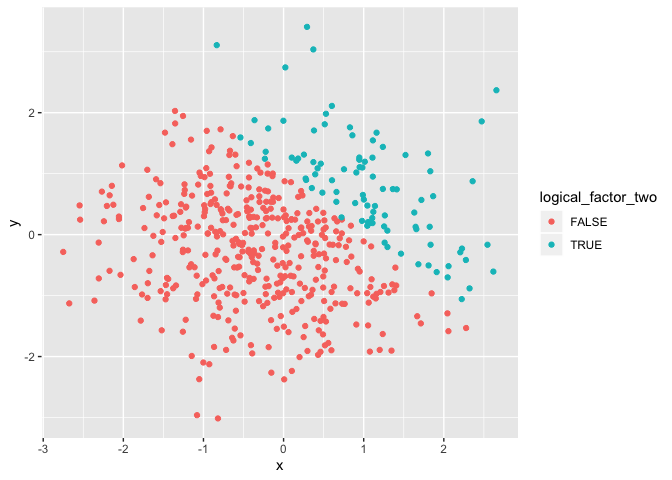
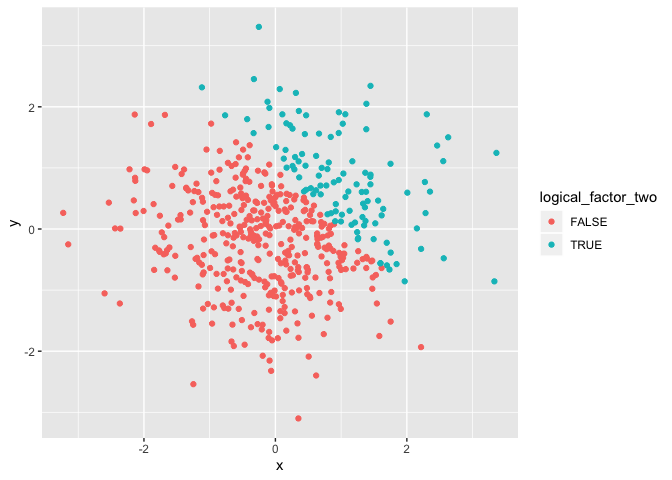
Final Version

diff --git a/p8105_hw1_qy2234.md b/p8105_hw1_qy2234.md
@@ -14,14 +14,14 @@ Michael Yan
 library(tidyverse)
 ```
 
-    ## ── Attaching packages ────────────────────────────────────────────────────────── tidyverse 1.2.1 ──
+    ## ── Attaching packages ───────────────────────────────────────────── tidyverse 1.2.1 ──
 
     ## ✔ ggplot2 3.2.1     ✔ purrr   0.3.2
     ## ✔ tibble  2.1.3     ✔ dplyr   0.8.3
     ## ✔ tidyr   0.8.3     ✔ stringr 1.4.0
     ## ✔ readr   1.3.1     ✔ forcats 0.4.0
 
-    ## ── Conflicts ───────────────────────────────────────────────────────────── tidyverse_conflicts() ──
+    ## ── Conflicts ──────────────────────────────────────────────── tidyverse_conflicts() ──
     ## ✖ dplyr::filter() masks stats::filter()
     ## ✖ dplyr::lag()    masks stats::lag()
 
@@ -80,53 +80,56 @@ factor_vector_mean = mean(pull(df_one, factor_vector))
 as.numeric(pull(df_one, logical_vector))
 ```
 
-    ## [1] 1 0 1 1 1 1 0 0
+    ## [1] 1 1 1 0 1 0 1 0
 
 ``` r
-product_rs_lv_numeric = pull(df_one, logical_vector) * pull(df_one, ramdom_sample)
+product_rs_lv_numeric = pull(df_one, logical_vector) * 
+  pull(df_one, ramdom_sample)
 product_rs_lv_numeric
 ```
 
-    ## [1] 1.6698426 0.0000000 1.6041032 0.7484782 1.3841194 1.1588821 0.0000000
-    ## [8] 0.0000000
+    ## [1] 0.72577030 0.09187142 0.34142293 0.00000000 0.10083496 0.00000000
+    ## [7] 0.50598354 0.00000000
 
 ``` r
-##convert the logical vector to a factor, and multiply the random sample by the result
+## convert the logical vector to a factor, and multiply the random sample by the result
 as.factor(pull(df_one, logical_vector))
 ```
 
-    ## [1] TRUE  FALSE TRUE  TRUE  TRUE  TRUE  FALSE FALSE
+    ## [1] TRUE  TRUE  TRUE  FALSE TRUE  FALSE TRUE  FALSE
     ## Levels: FALSE TRUE
 
 ``` r
-product_rs_lv_factor = pull(df_one, logical_vector) * pull(df_one, ramdom_sample)
+product_rs_lv_factor = pull(df_one, logical_vector) * 
+  pull(df_one, ramdom_sample)
 product_rs_lv_factor
 ```
 
-    ## [1] 1.6698426 0.0000000 1.6041032 0.7484782 1.3841194 1.1588821 0.0000000
-    ## [8] 0.0000000
+    ## [1] 0.72577030 0.09187142 0.34142293 0.00000000 0.10083496 0.00000000
+    ## [7] 0.50598354 0.00000000
 
 ``` r
-##convert the logical vector to a factor and then convert the result to numeric, and multiply the random sample by the result
+## convert the logical vector to a factor and then convert the result to numeric, and multiply the random sample by the result
 as.factor(pull(df_one, logical_vector))
 ```
 
-    ## [1] TRUE  FALSE TRUE  TRUE  TRUE  TRUE  FALSE FALSE
+    ## [1] TRUE  TRUE  TRUE  FALSE TRUE  FALSE TRUE  FALSE
     ## Levels: FALSE TRUE
 
 ``` r
 as.numeric(pull(df_one, logical_vector))
 ```
 
-    ## [1] 1 0 1 1 1 1 0 0
+    ## [1] 1 1 1 0 1 0 1 0
 
 ``` r
-product_rs_lv_n_f = pull(df_one, logical_vector) * pull(df_one, ramdom_sample)
+product_rs_lv_n_f = pull(df_one, logical_vector) * 
+  pull(df_one, ramdom_sample)
 product_rs_lv_n_f
 ```
 
-    ## [1] 1.6698426 0.0000000 1.6041032 0.7484782 1.3841194 1.1588821 0.0000000
-    ## [8] 0.0000000
+    ## [1] 0.72577030 0.09187142 0.34142293 0.00000000 0.10083496 0.00000000
+    ## [7] 0.50598354 0.00000000
 
 ## Problem 2
 
@@ -146,21 +149,21 @@ logical_factor_two_numeric = as.numeric(pull(df_two, logical_factor_two))
 logical_factor_two_numeric
 ```
 
-    ##   [1] 0 0 1 0 0 0 0 1 0 1 0 1 0 0 0 0 0 1 1 0 0 0 0 0 0 1 0 0 1 0 0 1 0 0 0
-    ##  [36] 0 0 1 0 1 0 0 1 0 0 0 0 0 1 0 0 0 1 0 0 0 0 0 0 0 0 0 0 1 0 0 0 0 0 0
-    ##  [71] 0 0 1 0 1 0 1 0 0 0 0 0 0 0 0 1 0 0 0 0 1 0 0 1 0 0 1 0 0 0 0 0 0 0 0
-    ## [106] 0 0 1 0 0 0 0 0 0 0 0 0 0 0 1 0 0 0 0 0 0 0 0 0 0 0 0 0 0 0 0 0 0 0 1
-    ## [141] 0 0 0 1 0 0 0 0 0 0 0 0 0 0 0 1 0 0 1 0 0 0 0 0 0 0 0 0 0 0 0 0 0 1 0
-    ## [176] 0 0 0 0 0 1 0 0 0 0 0 0 0 1 0 0 0 0 0 0 0 0 0 0 0 0 0 0 1 0 0 0 0 1 0
-    ## [211] 0 1 1 0 0 1 0 1 1 1 0 0 1 0 0 0 0 0 0 0 0 0 1 0 0 1 0 0 0 0 0 0 0 0 0
-    ## [246] 0 0 0 0 0 0 0 0 1 0 1 0 0 0 0 0 1 0 0 1 0 0 0 1 0 0 0 0 0 0 0 1 0 0 1
-    ## [281] 0 0 0 0 0 0 0 0 0 0 0 0 0 1 0 0 1 0 0 0 0 1 0 0 0 0 0 0 0 0 0 1 0 0 1
-    ## [316] 0 1 1 0 0 1 1 0 1 0 0 0 0 0 0 0 0 0 0 0 1 0 0 0 1 0 0 0 0 0 0 0 0 0 0
-    ## [351] 0 0 0 0 0 0 1 0 0 0 1 0 0 0 0 0 1 1 0 0 1 0 0 1 0 0 0 0 0 0 0 0 0 0 1
-    ## [386] 0 0 0 1 1 0 0 0 0 0 0 0 0 0 0 0 0 0 0 0 0 0 0 1 0 0 0 0 1 0 0 0 0 1 0
-    ## [421] 0 0 0 0 0 0 0 0 0 0 1 0 1 0 0 0 1 0 0 0 0 0 0 0 1 0 0 0 0 0 0 1 0 0 0
-    ## [456] 0 0 1 1 0 1 0 0 0 0 1 0 0 1 0 0 0 0 0 0 0 0 1 0 1 0 0 1 1 0 0 1 0 1 0
-    ## [491] 0 1 0 0 0 0 0 1 0 0
+    ##   [1] 0 0 1 0 1 1 0 0 0 0 0 0 0 0 1 0 1 0 1 0 0 0 1 1 0 0 0 0 0 0 0 1 0 0 0
+    ##  [36] 0 0 1 0 0 0 0 0 0 1 0 0 1 1 1 0 0 0 1 0 0 0 0 0 0 1 0 0 0 0 1 0 0 0 0
+    ##  [71] 1 0 0 0 0 0 0 0 1 0 1 0 1 0 0 1 1 1 0 0 0 0 0 0 1 0 0 0 0 1 1 0 0 1 0
+    ## [106] 0 1 1 0 0 1 1 1 0 0 0 0 0 0 0 1 0 1 0 0 1 0 0 0 0 0 1 1 0 0 0 0 0 0 0
+    ## [141] 0 0 1 0 0 0 1 0 0 1 1 0 1 0 0 0 1 1 0 1 0 1 1 0 0 0 0 0 1 0 1 0 0 0 0
+    ## [176] 0 0 0 0 0 0 0 0 0 0 0 0 1 0 0 0 0 0 0 0 0 0 0 1 0 0 0 0 0 0 0 1 1 0 0
+    ## [211] 0 0 0 0 0 0 0 0 0 0 0 0 0 0 1 0 0 0 0 0 1 0 1 0 0 0 0 1 0 0 0 0 0 0 0
+    ## [246] 1 1 0 0 0 0 0 0 0 0 0 0 0 1 0 1 0 0 0 1 0 0 0 0 0 1 1 1 0 0 0 0 1 0 0
+    ## [281] 0 0 0 0 0 0 0 0 0 0 0 0 0 0 1 0 1 0 0 0 1 0 0 0 0 0 0 0 0 0 0 1 0 0 0
+    ## [316] 0 0 1 0 0 0 0 1 1 0 1 0 0 0 0 1 0 1 0 0 0 0 0 0 1 1 0 0 0 0 0 0 0 0 0
+    ## [351] 0 0 0 0 0 0 0 0 0 0 0 0 0 0 1 0 1 0 0 1 0 1 1 1 0 0 1 1 1 1 0 0 0 1 0
+    ## [386] 0 0 0 0 0 0 0 0 0 0 0 0 0 1 0 1 0 0 0 0 0 0 0 0 0 1 1 0 0 0 1 0 0 0 0
+    ## [421] 1 0 0 0 0 0 0 0 0 0 0 0 0 0 0 0 0 0 0 0 0 0 0 0 1 0 0 0 0 0 0 0 1 0 1
+    ## [456] 0 0 0 0 0 0 0 1 0 0 1 0 0 1 1 0 0 1 1 0 0 0 1 0 0 0 1 0 0 1 1 0 0 0 0
+    ## [491] 0 0 0 0 0 0 0 1 0 0
 
 ``` r
 ## change logical vector to factor vector
@@ -168,60 +171,60 @@ logical_factor_two_factor = as.factor(pull(df_two, logical_factor_two))
 logical_factor_two_factor
 ```
 
-    ##   [1] FALSE FALSE TRUE  FALSE FALSE FALSE FALSE TRUE  FALSE TRUE  FALSE
-    ##  [12] TRUE  FALSE FALSE FALSE FALSE FALSE TRUE  TRUE  FALSE FALSE FALSE
-    ##  [23] FALSE FALSE FALSE TRUE  FALSE FALSE TRUE  FALSE FALSE TRUE  FALSE
-    ##  [34] FALSE FALSE FALSE FALSE TRUE  FALSE TRUE  FALSE FALSE TRUE  FALSE
-    ##  [45] FALSE FALSE FALSE FALSE TRUE  FALSE FALSE FALSE TRUE  FALSE FALSE
-    ##  [56] FALSE FALSE FALSE FALSE FALSE FALSE FALSE FALSE TRUE  FALSE FALSE
-    ##  [67] FALSE FALSE FALSE FALSE FALSE FALSE TRUE  FALSE TRUE  FALSE TRUE 
-    ##  [78] FALSE FALSE FALSE FALSE FALSE FALSE FALSE FALSE TRUE  FALSE FALSE
-    ##  [89] FALSE FALSE TRUE  FALSE FALSE TRUE  FALSE FALSE TRUE  FALSE FALSE
-    ## [100] FALSE FALSE FALSE FALSE FALSE FALSE FALSE FALSE TRUE  FALSE FALSE
-    ## [111] FALSE FALSE FALSE FALSE FALSE FALSE FALSE FALSE FALSE TRUE  FALSE
-    ## [122] FALSE FALSE FALSE FALSE FALSE FALSE FALSE FALSE FALSE FALSE FALSE
-    ## [133] FALSE FALSE FALSE FALSE FALSE FALSE FALSE TRUE  FALSE FALSE FALSE
-    ## [144] TRUE  FALSE FALSE FALSE FALSE FALSE FALSE FALSE FALSE FALSE FALSE
-    ## [155] FALSE TRUE  FALSE FALSE TRUE  FALSE FALSE FALSE FALSE FALSE FALSE
-    ## [166] FALSE FALSE FALSE FALSE FALSE FALSE FALSE FALSE TRUE  FALSE FALSE
-    ## [177] FALSE FALSE FALSE FALSE TRUE  FALSE FALSE FALSE FALSE FALSE FALSE
-    ## [188] FALSE TRUE  FALSE FALSE FALSE FALSE FALSE FALSE FALSE FALSE FALSE
-    ## [199] FALSE FALSE FALSE FALSE FALSE TRUE  FALSE FALSE FALSE FALSE TRUE 
-    ## [210] FALSE FALSE TRUE  TRUE  FALSE FALSE TRUE  FALSE TRUE  TRUE  TRUE 
-    ## [221] FALSE FALSE TRUE  FALSE FALSE FALSE FALSE FALSE FALSE FALSE FALSE
-    ## [232] FALSE TRUE  FALSE FALSE TRUE  FALSE FALSE FALSE FALSE FALSE FALSE
-    ## [243] FALSE FALSE FALSE FALSE FALSE FALSE FALSE FALSE FALSE FALSE FALSE
-    ## [254] TRUE  FALSE TRUE  FALSE FALSE FALSE FALSE FALSE TRUE  FALSE FALSE
-    ## [265] TRUE  FALSE FALSE FALSE TRUE  FALSE FALSE FALSE FALSE FALSE FALSE
-    ## [276] FALSE TRUE  FALSE FALSE TRUE  FALSE FALSE FALSE FALSE FALSE FALSE
-    ## [287] FALSE FALSE FALSE FALSE FALSE FALSE FALSE TRUE  FALSE FALSE TRUE 
-    ## [298] FALSE FALSE FALSE FALSE TRUE  FALSE FALSE FALSE FALSE FALSE FALSE
-    ## [309] FALSE FALSE FALSE TRUE  FALSE FALSE TRUE  FALSE TRUE  TRUE  FALSE
-    ## [320] FALSE TRUE  TRUE  FALSE TRUE  FALSE FALSE FALSE FALSE FALSE FALSE
-    ## [331] FALSE FALSE FALSE FALSE FALSE TRUE  FALSE FALSE FALSE TRUE  FALSE
+    ##   [1] FALSE FALSE TRUE  FALSE TRUE  TRUE  FALSE FALSE FALSE FALSE FALSE
+    ##  [12] FALSE FALSE FALSE TRUE  FALSE TRUE  FALSE TRUE  FALSE FALSE FALSE
+    ##  [23] TRUE  TRUE  FALSE FALSE FALSE FALSE FALSE FALSE FALSE TRUE  FALSE
+    ##  [34] FALSE FALSE FALSE FALSE TRUE  FALSE FALSE FALSE FALSE FALSE FALSE
+    ##  [45] TRUE  FALSE FALSE TRUE  TRUE  TRUE  FALSE FALSE FALSE TRUE  FALSE
+    ##  [56] FALSE FALSE FALSE FALSE FALSE TRUE  FALSE FALSE FALSE FALSE TRUE 
+    ##  [67] FALSE FALSE FALSE FALSE TRUE  FALSE FALSE FALSE FALSE FALSE FALSE
+    ##  [78] FALSE TRUE  FALSE TRUE  FALSE TRUE  FALSE FALSE TRUE  TRUE  TRUE 
+    ##  [89] FALSE FALSE FALSE FALSE FALSE FALSE TRUE  FALSE FALSE FALSE FALSE
+    ## [100] TRUE  TRUE  FALSE FALSE TRUE  FALSE FALSE TRUE  TRUE  FALSE FALSE
+    ## [111] TRUE  TRUE  TRUE  FALSE FALSE FALSE FALSE FALSE FALSE FALSE TRUE 
+    ## [122] FALSE TRUE  FALSE FALSE TRUE  FALSE FALSE FALSE FALSE FALSE TRUE 
+    ## [133] TRUE  FALSE FALSE FALSE FALSE FALSE FALSE FALSE FALSE FALSE TRUE 
+    ## [144] FALSE FALSE FALSE TRUE  FALSE FALSE TRUE  TRUE  FALSE TRUE  FALSE
+    ## [155] FALSE FALSE TRUE  TRUE  FALSE TRUE  FALSE TRUE  TRUE  FALSE FALSE
+    ## [166] FALSE FALSE FALSE TRUE  FALSE TRUE  FALSE FALSE FALSE FALSE FALSE
+    ## [177] FALSE FALSE FALSE FALSE FALSE FALSE FALSE FALSE FALSE FALSE FALSE
+    ## [188] TRUE  FALSE FALSE FALSE FALSE FALSE FALSE FALSE FALSE FALSE FALSE
+    ## [199] TRUE  FALSE FALSE FALSE FALSE FALSE FALSE FALSE TRUE  TRUE  FALSE
+    ## [210] FALSE FALSE FALSE FALSE FALSE FALSE FALSE FALSE FALSE FALSE FALSE
+    ## [221] FALSE FALSE FALSE FALSE TRUE  FALSE FALSE FALSE FALSE FALSE TRUE 
+    ## [232] FALSE TRUE  FALSE FALSE FALSE FALSE TRUE  FALSE FALSE FALSE FALSE
+    ## [243] FALSE FALSE FALSE TRUE  TRUE  FALSE FALSE FALSE FALSE FALSE FALSE
+    ## [254] FALSE FALSE FALSE FALSE FALSE TRUE  FALSE TRUE  FALSE FALSE FALSE
+    ## [265] TRUE  FALSE FALSE FALSE FALSE FALSE TRUE  TRUE  TRUE  FALSE FALSE
+    ## [276] FALSE FALSE TRUE  FALSE FALSE FALSE FALSE FALSE FALSE FALSE FALSE
+    ## [287] FALSE FALSE FALSE FALSE FALSE FALSE FALSE FALSE TRUE  FALSE TRUE 
+    ## [298] FALSE FALSE FALSE TRUE  FALSE FALSE FALSE FALSE FALSE FALSE FALSE
+    ## [309] FALSE FALSE FALSE TRUE  FALSE FALSE FALSE FALSE FALSE TRUE  FALSE
+    ## [320] FALSE FALSE FALSE TRUE  TRUE  FALSE TRUE  FALSE FALSE FALSE FALSE
+    ## [331] TRUE  FALSE TRUE  FALSE FALSE FALSE FALSE FALSE FALSE TRUE  TRUE 
     ## [342] FALSE FALSE FALSE FALSE FALSE FALSE FALSE FALSE FALSE FALSE FALSE
-    ## [353] FALSE FALSE FALSE FALSE TRUE  FALSE FALSE FALSE TRUE  FALSE FALSE
-    ## [364] FALSE FALSE FALSE TRUE  TRUE  FALSE FALSE TRUE  FALSE FALSE TRUE 
-    ## [375] FALSE FALSE FALSE FALSE FALSE FALSE FALSE FALSE FALSE FALSE TRUE 
-    ## [386] FALSE FALSE FALSE TRUE  TRUE  FALSE FALSE FALSE FALSE FALSE FALSE
-    ## [397] FALSE FALSE FALSE FALSE FALSE FALSE FALSE FALSE FALSE FALSE FALSE
-    ## [408] FALSE TRUE  FALSE FALSE FALSE FALSE TRUE  FALSE FALSE FALSE FALSE
-    ## [419] TRUE  FALSE FALSE FALSE FALSE FALSE FALSE FALSE FALSE FALSE FALSE
-    ## [430] FALSE TRUE  FALSE TRUE  FALSE FALSE FALSE TRUE  FALSE FALSE FALSE
+    ## [353] FALSE FALSE FALSE FALSE FALSE FALSE FALSE FALSE FALSE FALSE FALSE
+    ## [364] FALSE TRUE  FALSE TRUE  FALSE FALSE TRUE  FALSE TRUE  TRUE  TRUE 
+    ## [375] FALSE FALSE TRUE  TRUE  TRUE  TRUE  FALSE FALSE FALSE TRUE  FALSE
+    ## [386] FALSE FALSE FALSE FALSE FALSE FALSE FALSE FALSE FALSE FALSE FALSE
+    ## [397] FALSE FALSE TRUE  FALSE TRUE  FALSE FALSE FALSE FALSE FALSE FALSE
+    ## [408] FALSE FALSE FALSE TRUE  TRUE  FALSE FALSE FALSE TRUE  FALSE FALSE
+    ## [419] FALSE FALSE TRUE  FALSE FALSE FALSE FALSE FALSE FALSE FALSE FALSE
+    ## [430] FALSE FALSE FALSE FALSE FALSE FALSE FALSE FALSE FALSE FALSE FALSE
     ## [441] FALSE FALSE FALSE FALSE TRUE  FALSE FALSE FALSE FALSE FALSE FALSE
-    ## [452] TRUE  FALSE FALSE FALSE FALSE FALSE TRUE  TRUE  FALSE TRUE  FALSE
-    ## [463] FALSE FALSE FALSE TRUE  FALSE FALSE TRUE  FALSE FALSE FALSE FALSE
-    ## [474] FALSE FALSE FALSE FALSE TRUE  FALSE TRUE  FALSE FALSE TRUE  TRUE 
-    ## [485] FALSE FALSE TRUE  FALSE TRUE  FALSE FALSE TRUE  FALSE FALSE FALSE
+    ## [452] FALSE TRUE  FALSE TRUE  FALSE FALSE FALSE FALSE FALSE FALSE FALSE
+    ## [463] TRUE  FALSE FALSE TRUE  FALSE FALSE TRUE  TRUE  FALSE FALSE TRUE 
+    ## [474] TRUE  FALSE FALSE FALSE TRUE  FALSE FALSE FALSE TRUE  FALSE FALSE
+    ## [485] TRUE  TRUE  FALSE FALSE FALSE FALSE FALSE FALSE FALSE FALSE FALSE
     ## [496] FALSE FALSE TRUE  FALSE FALSE
     ## Levels: FALSE TRUE
 
 ### a short description of the vector
 
 *The size of the dataset is 500 by 3 * The mean of the sample is
--0.1111068 \* The median of the sample is -0.1586468 \* The standard
-deviation of the sample is 1.0197681 \* the proportion of cases for
-which x + y \> 1 is 0.182
+0.0245825 \* The median of the sample is 0.0103183 \* The standard
+deviation of the sample is 1.0142475 \* the proportion of cases for
+which x + y \> 1 is 0.22
 
 ### scatterplot of y vs x
 
